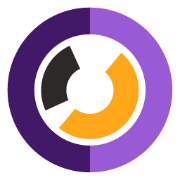
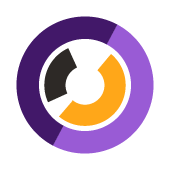
fix: WhatsApp soporte +51922213800, íconos PWA actualizados

diff --git a/src/app/page.tsx b/src/app/page.tsx
@@ -438,7 +438,7 @@ const handleGoogleAuth = async () => {
         `}</style>
 
         {/* BOTÓN WHATSAPP FIJO */}
-        <a href="https://wa.me/51999999999?text=Hola%2C%20necesito%20ayuda%20con%20Giro%20Lab" target="_blank" rel="noopener noreferrer" className="wa-btn"
+        <a href="https://wa.me/51922213800?text=Hola%2C%20necesito%20ayuda%20con%20Giro%20Lab" target="_blank" rel="noopener noreferrer" className="wa-btn"
           style={{ position: 'fixed', bottom: 24, right: 24, zIndex: 9999, width: 56, height: 56, borderRadius: '50%', background: '#25d366', display: 'flex', alignItems: 'center', justifyContent: 'center', boxShadow: '0 4px 16px rgba(37,211,102,0.4)', transition: 'transform 0.2s, box-shadow 0.2s', textDecoration: 'none' }}>
           <svg width="28" height="28" viewBox="0 0 24 24" fill="white">
             <path d="M17.472 14.382c-.297-.149-1.758-.867-2.03-.967-.273-.099-.471-.148-.67.15-.197.297-.767.966-.94 1.164-.173.199-.347.223-.644.075-.297-.15-1.255-.463-2.39-1.475-.883-.788-1.48-1.761-1.653-2.059-.173-.297-.018-.458.13-.606.134-.133.298-.347.446-.52.149-.174.198-.298.298-.497.099-.198.05-.371-.025-.52-.075-.149-.669-1.612-.916-2.207-.242-.579-.487-.5-.669-.51-.173-.008-.371-.01-.57-.01-.198 0-.52.074-.792.372-.272.297-1.04 1.016-1.04 2.479 0 1.462 1.065 2.875 1.213 3.074.149.198 2.096 3.2 5.077 4.487.709.306 1.262.489 1.694.625.712.227 1.36.195 1.871.118.571-.085 1.758-.719 2.006-1.413.248-.694.248-1.289.173-1.413-.074-.124-.272-.198-.57-.347m-5.421 7.403h-.004a9.87 9.87 0 01-5.031-1.378l-.361-.214-3.741.982.998-3.648-.235-.374a9.86 9.86 0 01-1.51-5.26c.001-5.45 4.436-9.884 9.888-9.884 2.64 0 5.122 1.03 6.988 2.898a9.825 9.825 0 012.893 6.994c-.003 5.45-4.437 9.884-9.885 9.884m8.413-18.297A11.815 11.815 0 0012.05 0C5.495 0 .16 5.335.157 11.892c0 2.096.547 4.142 1.588 5.945L.057 24l6.305-1.654a11.882 11.882 0 005.683 1.448h.005c6.554 0 11.89-5.335 11.893-11.893a11.821 11.821 0 00-3.48-8.413z"/>
